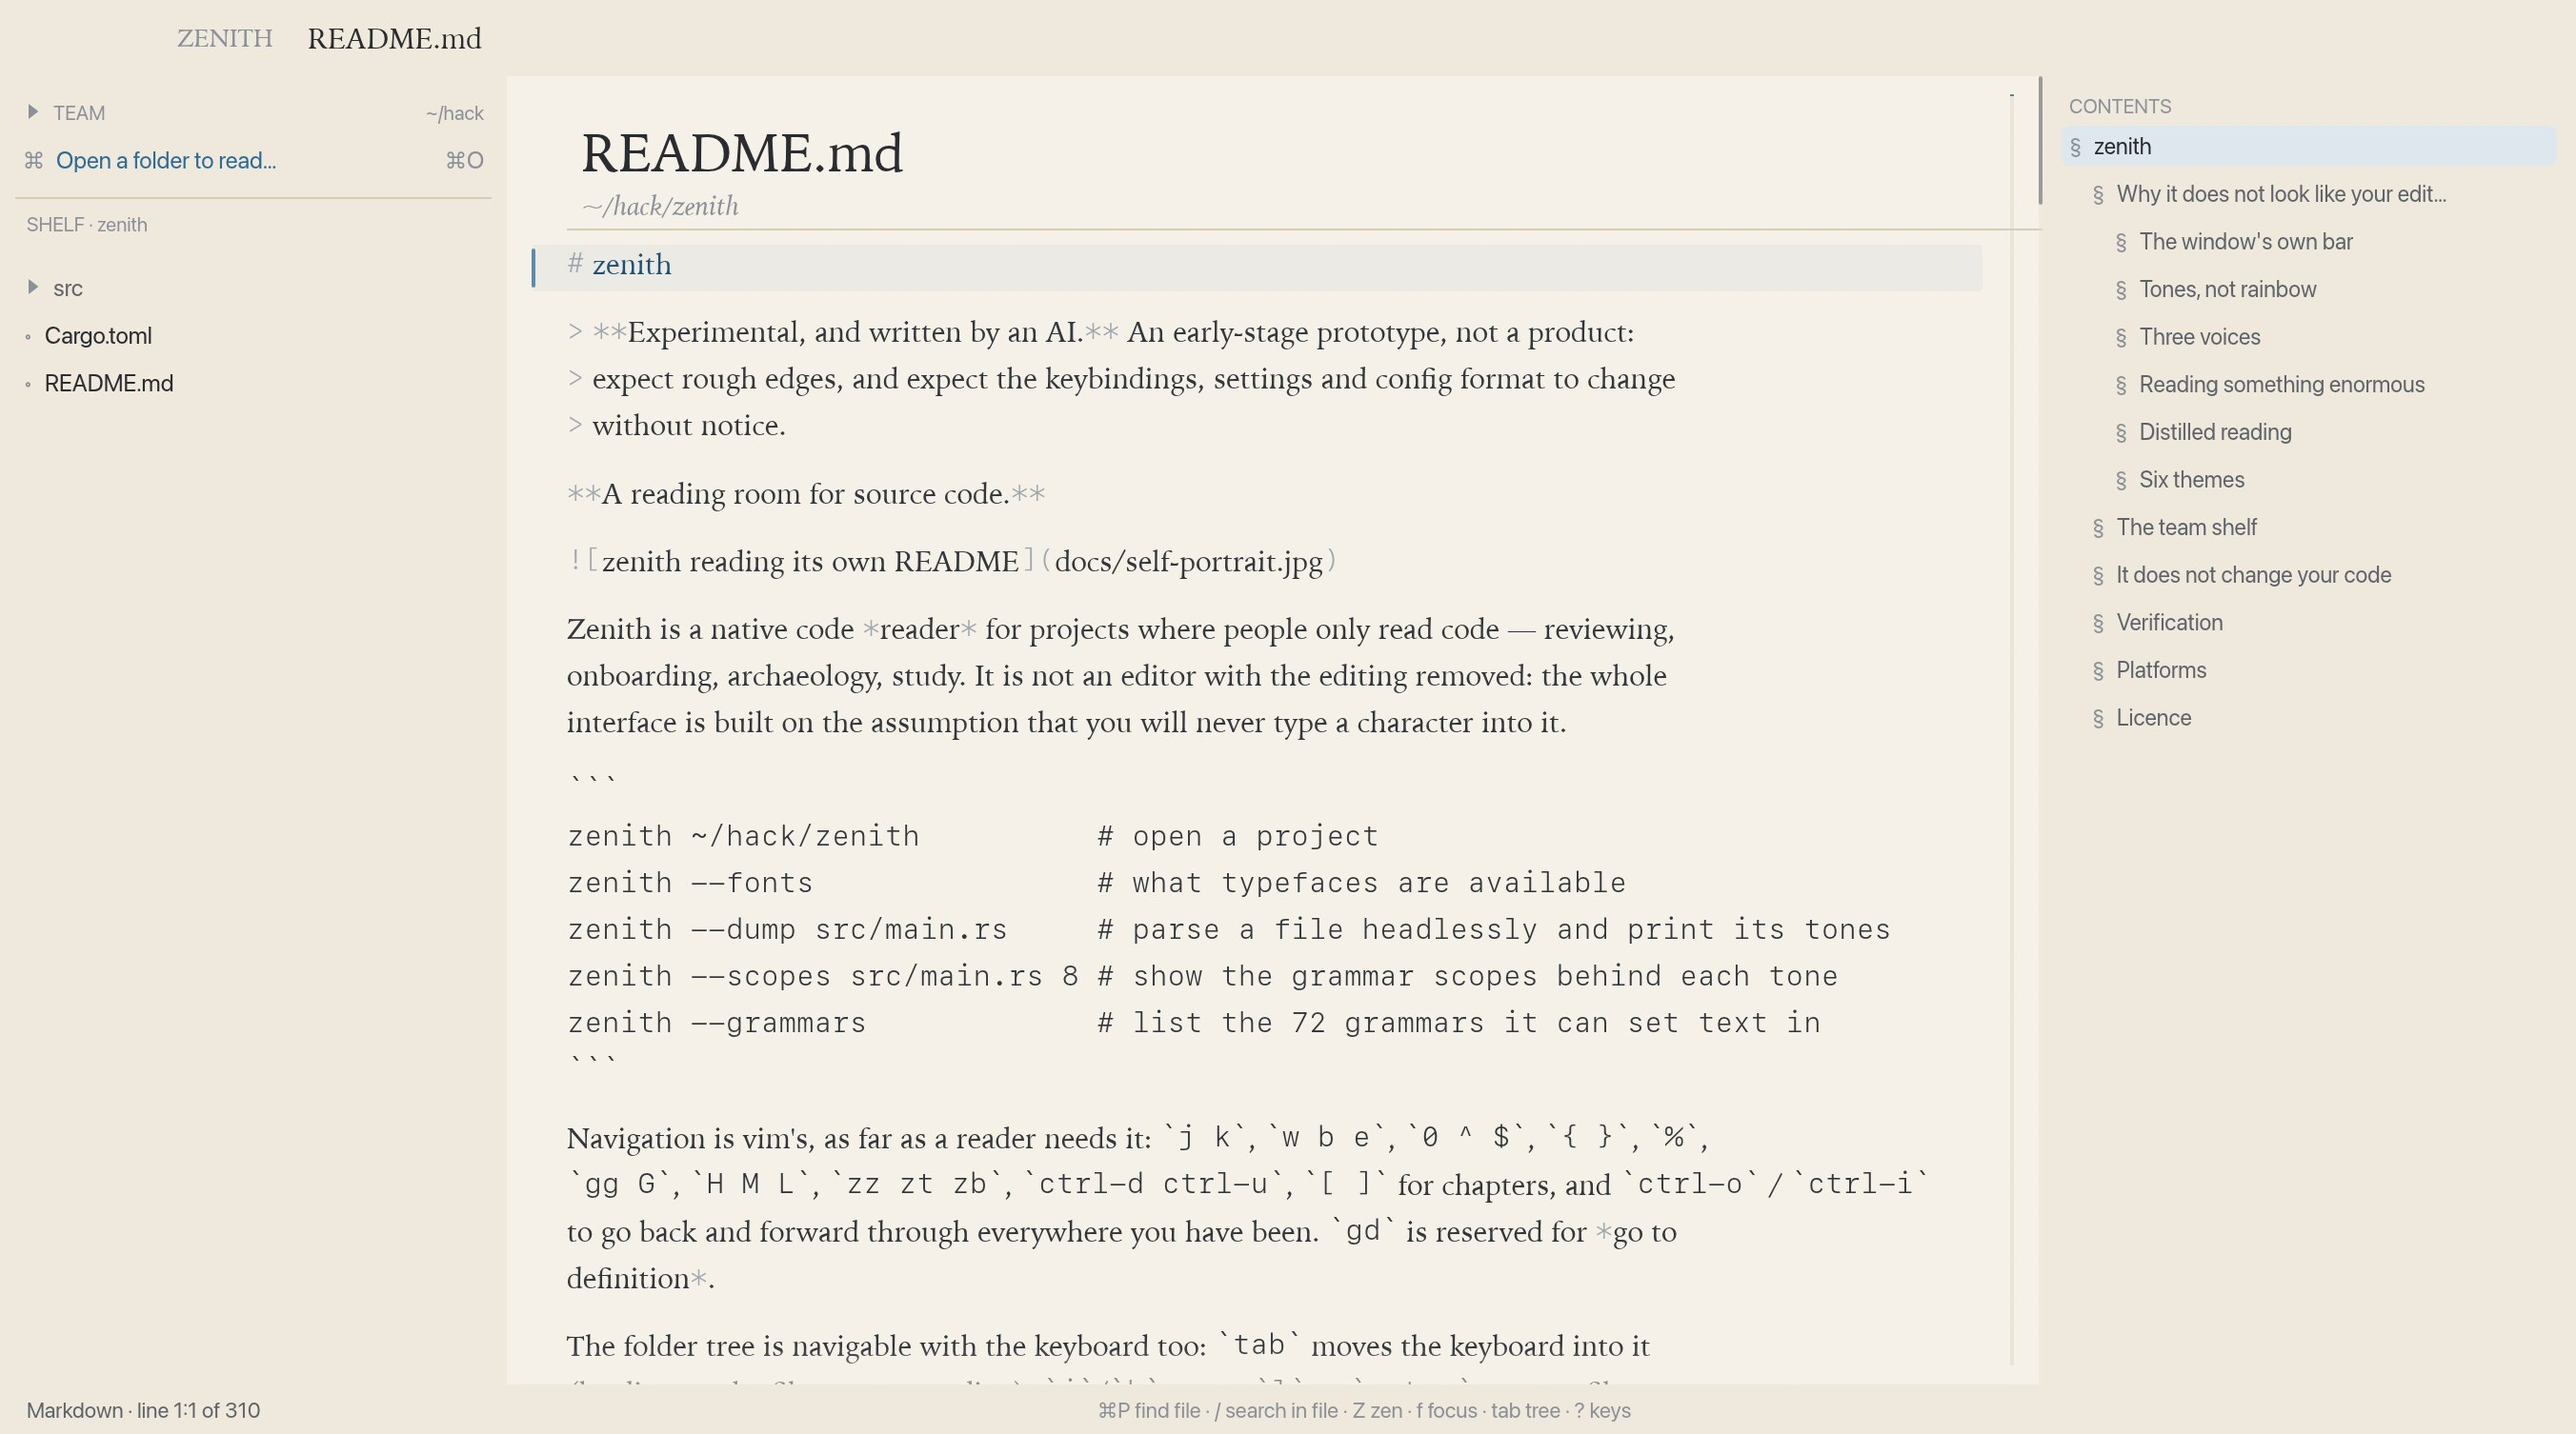
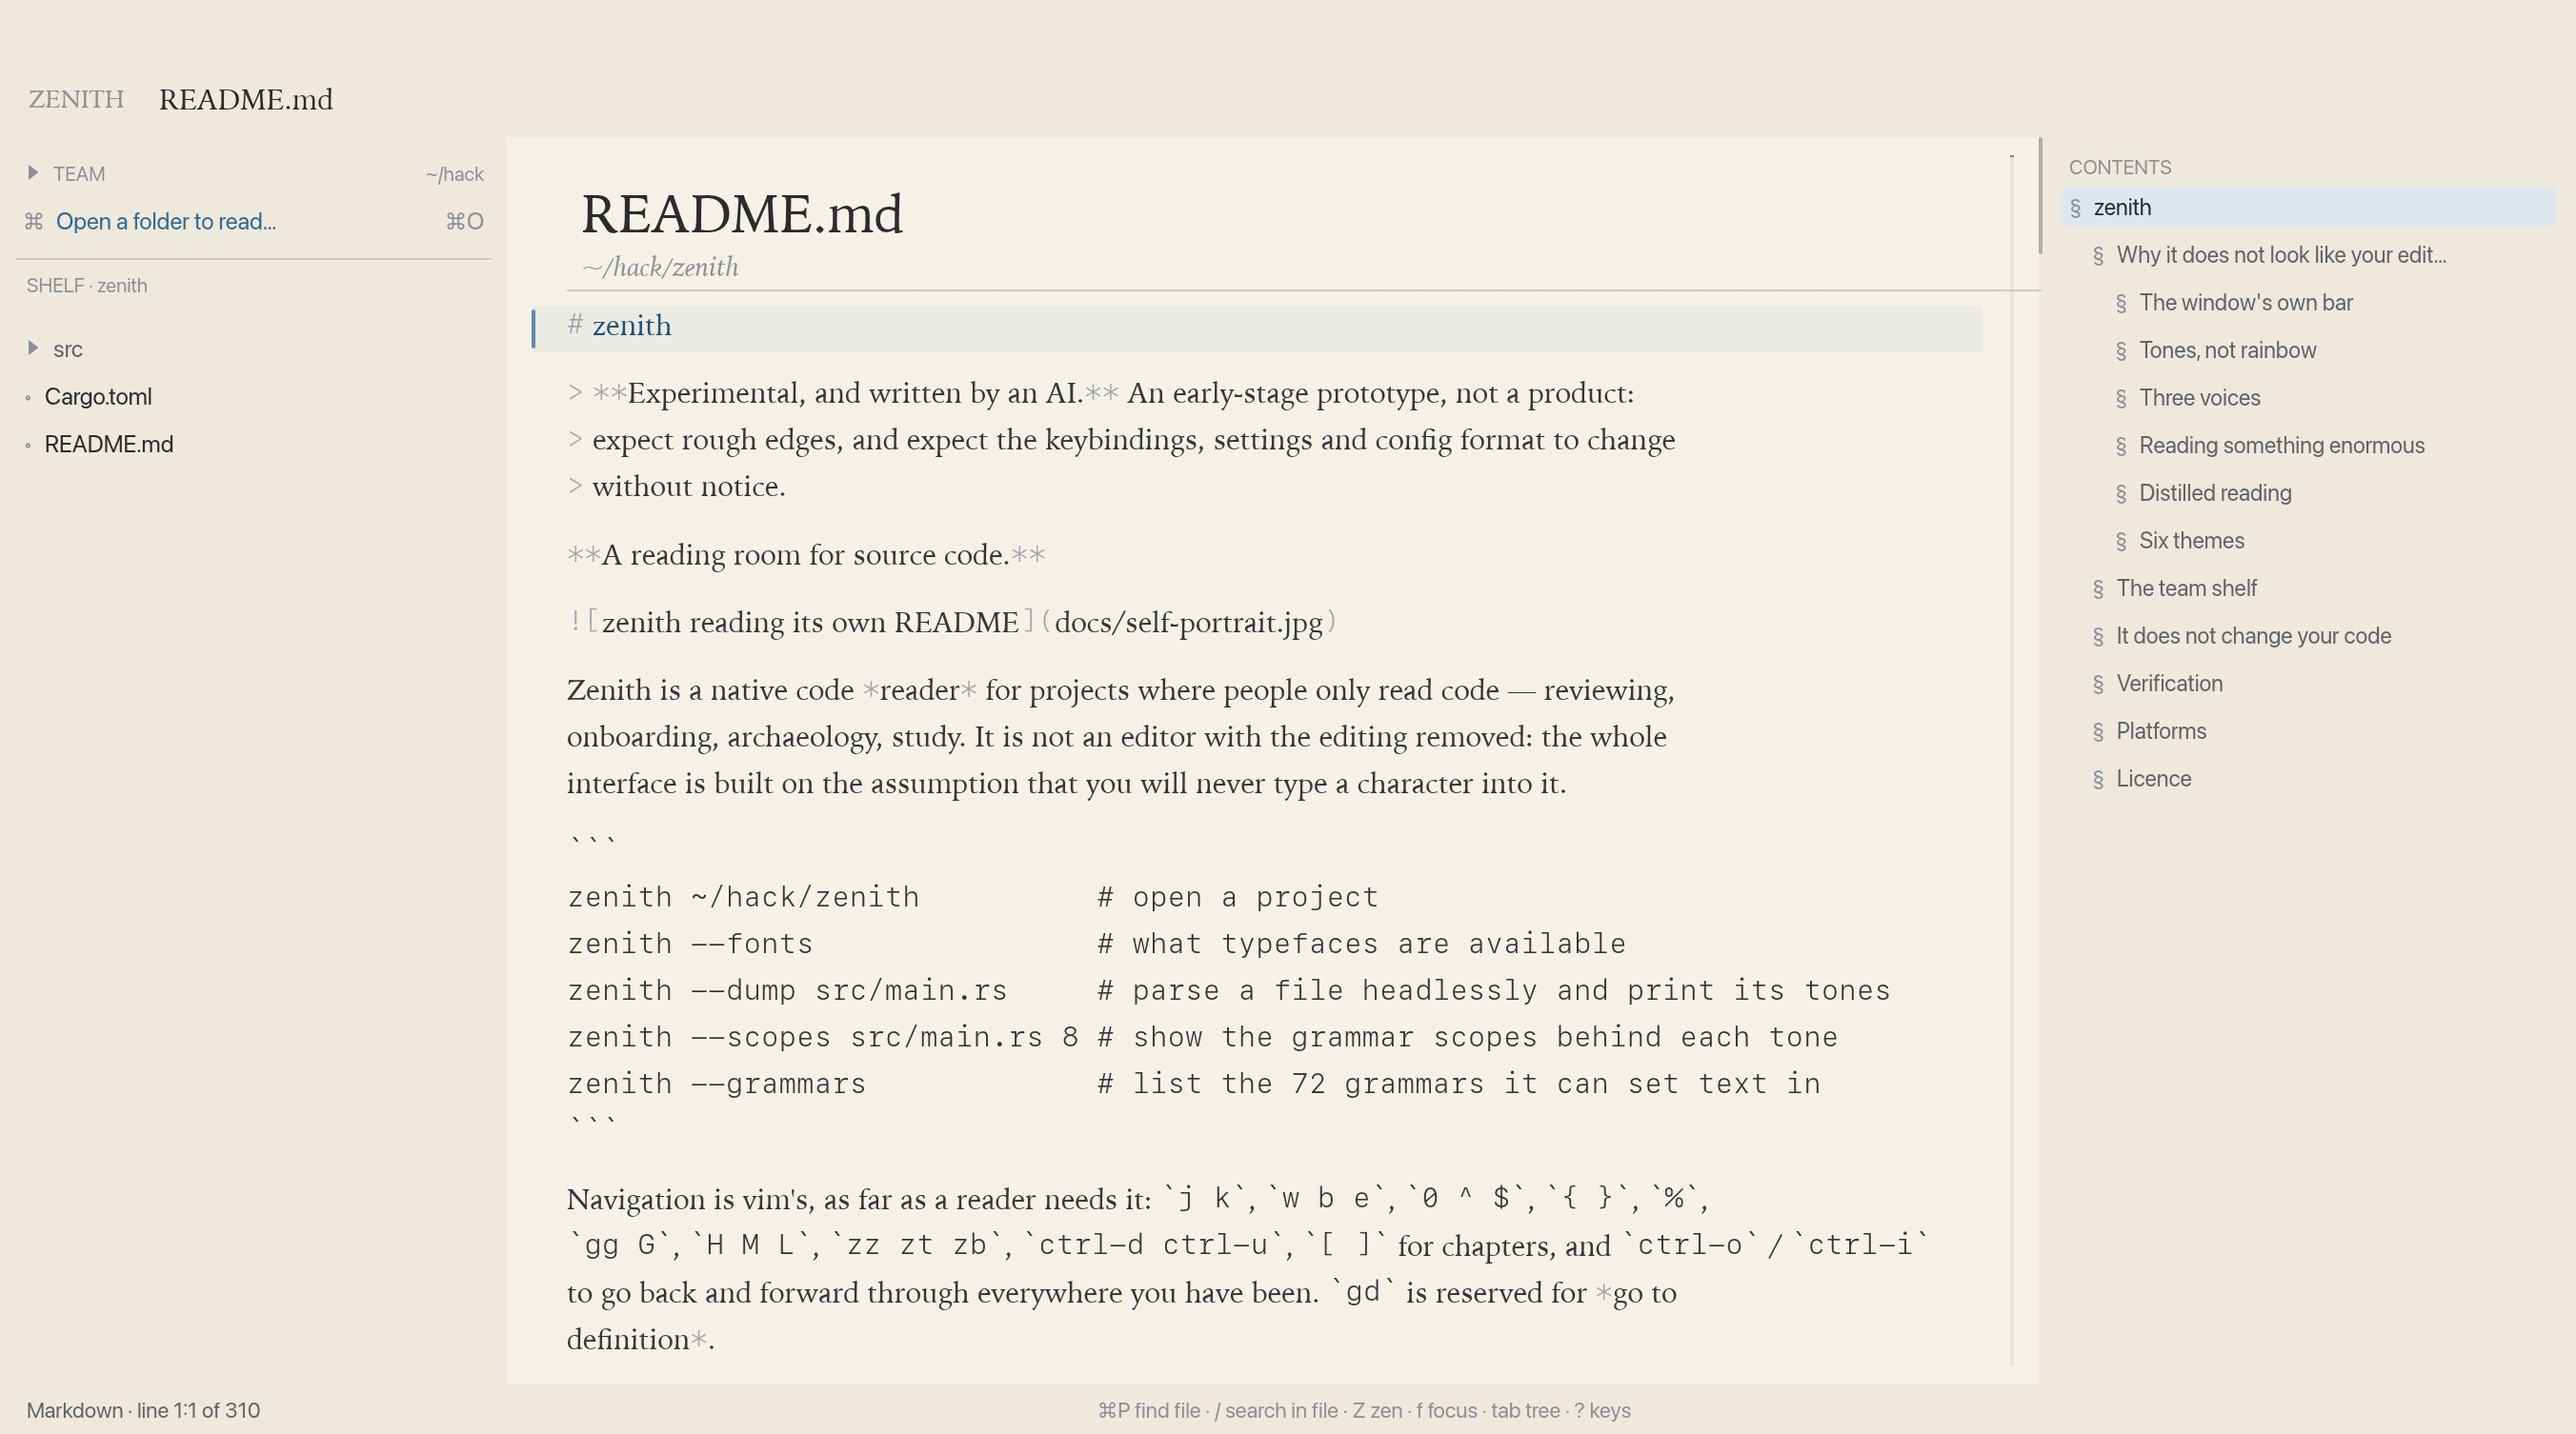
Give the system's title strip its own room on macOS
The screenshot from a real window showed what the last commit missed: a
transparent title bar does not remove the system's *title*. AppKit still draws
"zenith — zenith" over the window, and since the content fills the window it was
drawn straight across the app's own bar — two titles, struck through each other.

So the strip now belongs to the system. The top bar grows by the height of the
traffic lights — measured from the window, not guessed — and its own content
(the app's name and the breadcrumb) begins below it. The band above shows the
theme's colour, with the traffic lights on the left and the system's title in
it, and nothing overlaps.

While that title is visible on macOS, it may as well be useful: it follows the
file being read ("zenith — src/reader.rs") instead of naming the folder zenith
was launched on. On Linux it still appears in a window manager's frame when the
native frame is used.

diff --git a/src/app.rs b/src/app.rs
@@ -234,8 +234,11 @@ pub struct Zenith {
     tree_moved: bool,
     /// A development affordance has been applied, once.
     tree_hook_done: bool,
-    /// Width of the macOS traffic lights over our bar, in points (0 elsewhere).
-    chrome_gutter: f32,
+    /// The window's title needs telling what is open.
+    title_dirty: bool,
+    /// Height of the system's title strip on macOS, in points (0 elsewhere). Our own bar
+    /// sits below it, so the system's title and traffic lights have the room they expect.
+    chrome_strip: f32,
     tree_hook_step: u8,
     /// The places we have been, so `ctrl-o` can take us back.
     jumps: Vec<vim::Caret>,
@@ -313,17 +316,18 @@ impl Zenith {
         let hl = Highlighter::new();
         // Ask the window how wide its buttons are, for the macOS bar inset.
         #[cfg(target_os = "macos")]
-        let chrome_gutter = {
+        let chrome_strip = {
             use raw_window_handle::HasWindowHandle as _;
             let zoom = cc.egui_ctx.zoom_factor();
             cc.window_handle()
                 .ok()
                 .and_then(|h| eframe::WindowChromeMetrics::from_window_handle(&h.as_raw()))
-                .map(|m| m.traffic_lights_size.x / zoom)
-                .unwrap_or(74.0)
+                // The traffic lights' own height is the height of the strip they live in.
+                .map(|m| (m.traffic_lights_size.y / zoom).max(22.0))
+                .unwrap_or(28.0)
         };
         #[cfg(not(target_os = "macos"))]
-        let chrome_gutter = 0.0;
+        let chrome_strip = 0.0;
 
         let mut app = Zenith {
             scale: config.font_scale,
@@ -348,7 +352,8 @@ impl Zenith {
             tree_sel: None,
             tree_moved: false,
             tree_hook_done: false,
-            chrome_gutter,
+            title_dirty: true,
+            chrome_strip,
             tree_hook_step: 0,
             jumps: Vec::new(),
             jump_pos: 0,
@@ -667,6 +672,7 @@ impl Zenith {
                     }
                     note.push_str("decoded lossily (not UTF-8)");
                 }
+                self.title_dirty = true;
                 self.outline_sel = None;
                 self.open = Some(Open {
                     path: path.to_path_buf(),
@@ -1576,6 +1582,13 @@ impl eframe::App for Zenith {
             }
         }
 
+        // The window's title, once the file it names has settled.
+        if self.title_dirty {
+            let rel = self.open.as_ref().map(|o| o.rel.clone());
+            self.set_window_title(&ctx, rel.as_deref());
+            self.title_dirty = false;
+        }
+
         // The rows first: both the keyboard and the panel read this list, and they have to
         // agree about what "the row below this one" means.
         self.tree_rows = self.build_tree_rows();
@@ -1703,15 +1716,30 @@ impl eframe::App for Zenith {
 }
 
 impl Zenith {
-    /// How much room the macOS traffic lights take, measured from the window itself.
+    /// Tell the window what it is showing.
     ///
-    /// Guessing this number puts the app's name under the buttons on one display scale and
-    /// leaves a gap on another; the window knows, so it is asked.
-    fn traffic_light_gutter(&self) -> f32 {
-        if !cfg!(target_os = "macos") || !self.store.config.frameless {
-            return 0.0;
+    /// On macOS the system draws this in the strip above our bar, and a window manager
+    /// shows it in its frame elsewhere, so it should say where the reader is rather than
+    /// only where they started.
+    fn set_window_title(&self, ctx: &egui::Context, file: Option<&str>) {
+        let title = match file {
+            Some(rel) => format!("zenith — {rel}"),
+            None => "zenith".to_string(),
+        };
+        ctx.send_viewport_cmd(egui::ViewportCommand::Title(title));
+    }
+
+    /// How much room the system's title strip needs above our own bar, measured from the
+    /// window itself.
+    ///
+    /// Guessing this number puts our text under the title on one display scale and leaves
+    /// a gap on another; the window knows, so it is asked.
+    fn title_strip(&self) -> f32 {
+        if cfg!(target_os = "macos") && self.store.config.frameless {
+            self.chrome_strip
+        } else {
+            0.0
         }
-        self.chrome_gutter
     }
 
     fn top_bar(&mut self, ui: &mut Ui) {
@@ -1719,9 +1747,11 @@ impl Zenith {
         let font = self.typo.ui_id(12.5 * self.scale);
         let strong = self.typo.prose_id(15.0 * self.scale);
         let ctx = ui.ctx().clone();
-        // On macOS the traffic lights stay exactly where they were, floating over the
-        // transparent title bar, so the bar starts after them rather than under them.
-        let gutter = self.traffic_light_gutter();
+        // On macOS the system still draws its title and its traffic lights over the top of
+        // the window, and a transparent title bar does not stop it — the title is drawn
+        // over our content, twice over. So the strip belongs to the system and our own bar
+        // begins underneath it, which is also what a system toolbar looks like.
+        let strip = self.title_strip();
         let crumbs: Vec<String> = self
             .open
             .as_ref()
@@ -1729,7 +1759,7 @@ impl Zenith {
             .unwrap_or_default();
         egui::Panel::top("zenith-top")
             .resizable(false)
-            .exact_size(40.0)
+            .exact_size(40.0 + strip)
             .show_separator_line(false)
             .frame(
                 Frame::NONE
@@ -1768,10 +1798,11 @@ impl Zenith {
                 if own_window_buttons() {
                     window_buttons(ui, &pal, &ctx, bar);
                 }
-                let y = ui.max_rect().center().y;
+                let bar_rect = ui.max_rect();
+                let y = bar_rect.top() + strip + (bar_rect.height() - strip) * 0.5;
                 let painter = ui.painter();
                 let mark = painter.text(
-                    Pos2::new(ui.max_rect().left() + 1.0 + gutter, y),
+                    Pos2::new(bar_rect.left() + 1.0, y),
                     Align2::LEFT_CENTER,
                     "ZENITH",
                     self.typo.prose_id(13.0 * self.scale),

diff --git a/README.md b/README.md
@@ -80,10 +80,13 @@ things on the two platforms:
 **On macOS the window stays entirely the system's.** Its frame, its traffic lights, its
 dragging, resizing, snapping and full screen all remain, and only the *title bar* is made
 transparent, with the content filling the window. The system draws no background there, so
-the theme's bar shows through and the traffic lights float above it — the app's name steps
-aside by exactly the width they occupy, measured from the window rather than guessed. This
-is the macOS pattern for a themed toolbar, and it is why zenith does not draw its own
-buttons there.
+the theme's bar shows through and the traffic lights float above it. The system still draws
+its *title* there — a transparent title bar does not remove it — so zenith's own bar begins
+below that strip rather than underneath it, and the band belongs to the window: the
+traffic lights on the left, the title in the middle, and the theme's colour behind both.
+The strip's height is measured from the window rather than guessed, and the title follows
+the file being read instead of naming the folder zenith was launched on. This is the macOS
+pattern for a themed toolbar, and it is why zenith does not draw its own buttons there.
 
 **On Linux and Windows the frame is ours**, because a window manager paints its own frame
 and there is no way to ask it for a colour. The window is created without decorations, the
